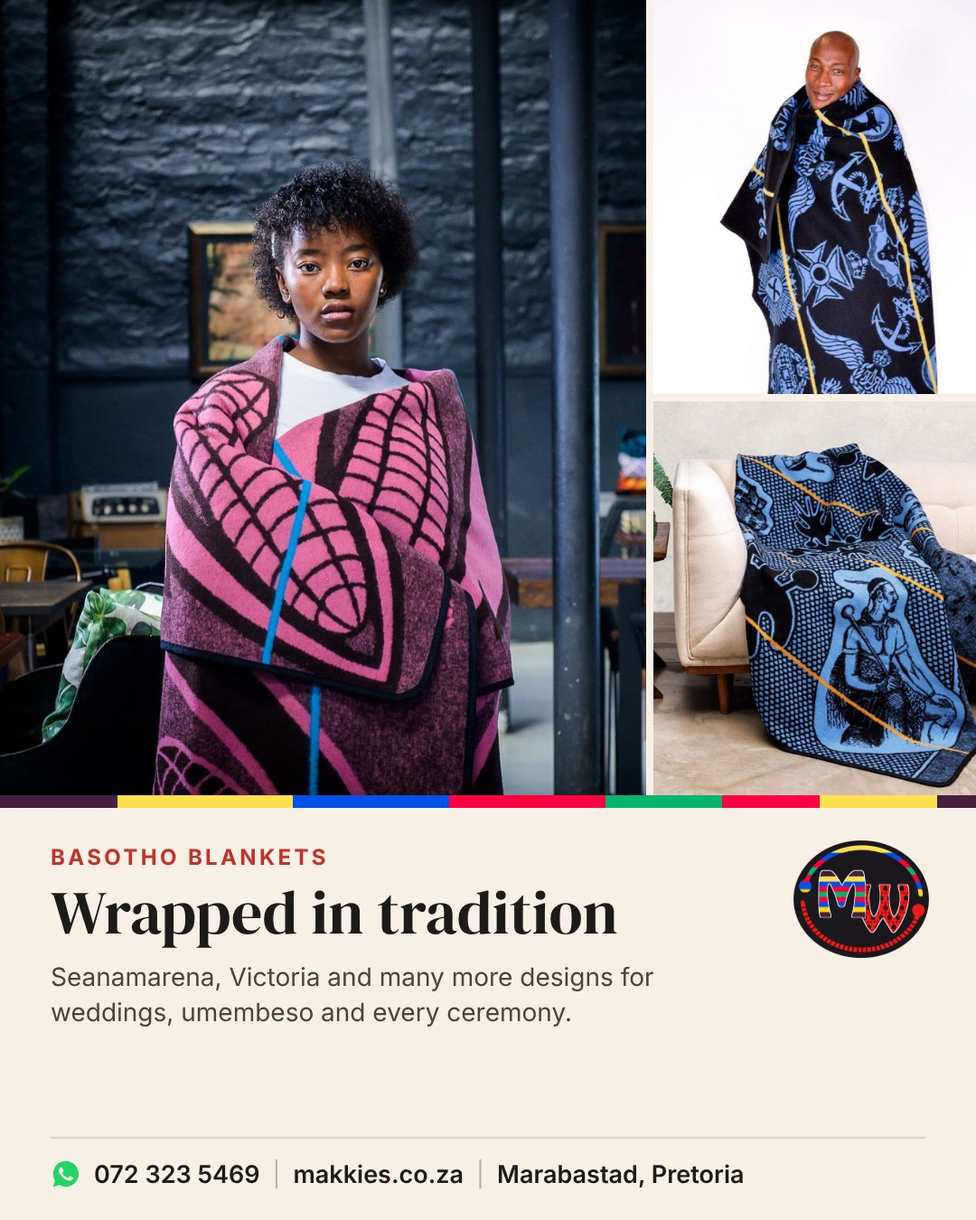
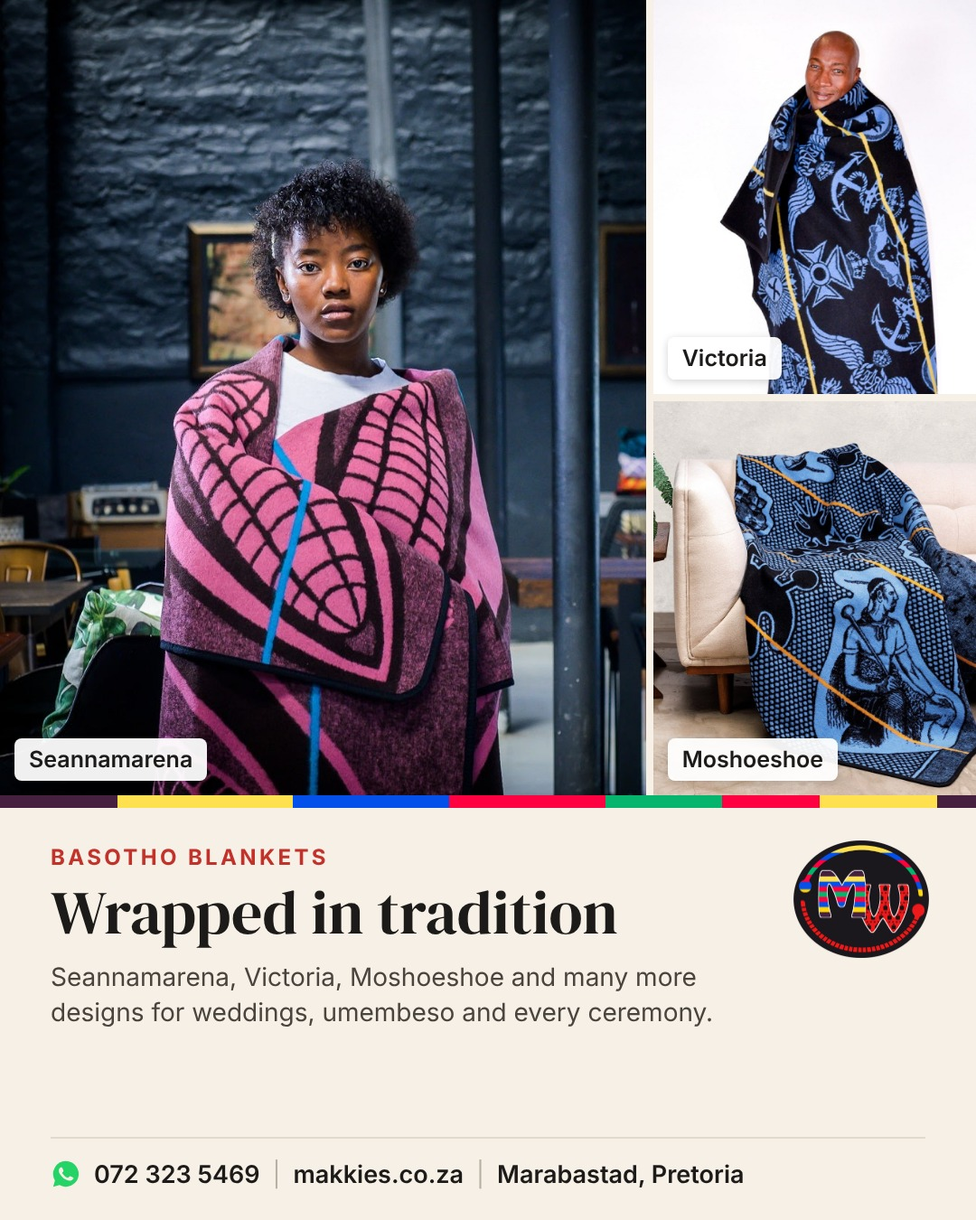
WhatsApp ads: add product and colour name labels
Claude-Session: https://claude.ai/code/session_01FrAdmZhbnvV2Pi8Ea2YxmY

diff --git a/marketing/whatsapp-ads/04-czech-beads.html b/marketing/whatsapp-ads/04-czech-beads.html
@@ -141,7 +141,7 @@
   unicode-range: U+0000-00FF, U+0131, U+0152-0153, U+02BB-02BC, U+02C6, U+02DA, U+02DC, U+0304, U+0308, U+0329, U+2000-206F, U+20AC, U+2122, U+2191, U+2193, U+2212, U+2215, U+FEFF, U+FFFD;
 }*{margin:0;padding:0;box-sizing:border-box}@font-face{font-family:'DM Serif Display';src:url(../category-ads-source/fonts/dmserif.woff2)}
 body{width:1080px;height:1350px;font-family:Inter,Arial,sans-serif;background:#F6F0E6;color:#1d1b19;overflow:hidden}
-.pics{height:880px;display:grid;gap:8px;background:#F6F0E6}.ph{background-size:cover;background-repeat:no-repeat}
+.pics{height:880px;display:grid;gap:8px;background:#F6F0E6}.ph{background-size:cover;background-repeat:no-repeat;position:relative}.lb{position:absolute;left:16px;bottom:16px;background:rgba(255,255,255,.94);color:#1d1b19;font-size:25px;font-weight:600;padding:9px 16px;border-radius:8px;box-shadow:0 2px 10px rgba(0,0,0,.18);line-height:1.15}.six .lb{font-size:22px;left:12px;bottom:12px;padding:8px 13px}.hero .lb{left:24px;bottom:24px;font-size:28px}
 .grid{grid-template-columns:2fr 1fr;grid-template-rows:1fr 1fr}.grid .big{grid-row:1/3}.quad{grid-template-columns:1fr 1fr;grid-template-rows:1fr 1fr}.hero .ph{height:880px}.six{grid-template-columns:1fr 1fr 1fr;grid-template-rows:1fr 1fr}
 .stripe{height:14px;background:linear-gradient(90deg,#45203F 0 12%,#FFE14F 12% 30%,#0350EA 30% 46%,#FF0141 46% 62%,#05B56D 62% 74%,#FF0141 74% 84%,#FFE14F 84% 96%,#45203F 96%)}
 .panel{height:456px;padding:40px 56px 0;position:relative}
@@ -150,6 +150,6 @@ body{width:1080px;height:1350px;font-family:Inter,Arial,sans-serif;background:#F
 h1{font-family:'DM Serif Display',Georgia,serif;font-weight:400;font-size:68px;line-height:1.04;margin:12px 0 16px;max-width:770px;text-wrap:balance}
 p{font-size:28px;line-height:1.4;color:#4a443e;max-width:770px;text-wrap:pretty}
 .foot{position:absolute;left:56px;right:56px;bottom:34px;display:flex;align-items:center;gap:14px;font-size:27px;font-weight:600;border-top:2px solid #e2d9cc;padding-top:22px}
-.foot .sep{color:#b9b0a5;font-weight:400}</style></head><body><div class="pics six"><div class="ph " style="background-image:url(../category-ads-source/img/pay_czech1.jpg);background-position:center"></div><div class="ph " style="background-image:url(../category-ads-source/img/pay_czech2.jpg);background-position:center"></div><div class="ph " style="background-image:url(../category-ads-source/img/cz_cz-83130.jpg);background-position:center"></div><div class="ph " style="background-image:url(../category-ads-source/img/pay_czech3.jpg);background-position:center"></div><div class="ph " style="background-image:url(../category-ads-source/img/cz_cz-63030.jpg);background-position:center"></div><div class="ph " style="background-image:url(../category-ads-source/img/cz_cz-37175.jpg);background-position:center"></div></div><div class="stripe"></div>
+.foot .sep{color:#b9b0a5;font-weight:400}</style></head><body><div class="pics six"><div class="ph " style="background-image:url(../category-ads-source/img/pay_czech1.jpg);background-position:center"><span class="lb">Dark Orange</span></div><div class="ph " style="background-image:url(../category-ads-source/img/pay_czech2.jpg);background-position:center"><span class="lb">Royal Blue</span></div><div class="ph " style="background-image:url(../category-ads-source/img/cz_cz-83130.jpg);background-position:center"><span class="lb">Yellow</span></div><div class="ph " style="background-image:url(../category-ads-source/img/pay_czech3.jpg);background-position:center"><span class="lb">Bright Green</span></div><div class="ph " style="background-image:url(../category-ads-source/img/cz_cz-63030.jpg);background-position:center"><span class="lb">Turquoise</span></div><div class="ph " style="background-image:url(../category-ads-source/img/cz_cz-37175.jpg);background-position:center"><span class="lb">Ceylon Pink</span></div></div><div class="stripe"></div>
 <div class="panel"><img class="logo" src="../category-ads-source/img/mw_oval.png"><div class="eb">Preciosa Czech Beads</div><h1>Every colour you need</h1><p>Loose and strung Czech beads for beadwork, crafters and schools. Ask us for a colour list.</p>
 <div class="foot"><svg width="34" height="34" viewBox="0 0 24 24" fill="#25D366"><path d="M12 2a10 10 0 0 0-8.6 15.1L2 22l5-1.3A10 10 0 1 0 12 2zm5.3 14.1c-.2.6-1.3 1.2-1.8 1.2-.5.1-1 .2-3.3-.7-2.8-1.1-4.6-4-4.7-4.2-.1-.2-1.1-1.5-1.1-2.9s.7-2 1-2.3c.2-.3.5-.3.7-.3h.5c.2 0 .4 0 .6.5l.8 2c.1.2.1.4 0 .5l-.3.5-.4.4c-.1.1-.3.3-.1.6.2.3.8 1.3 1.7 2.1 1.1 1 2.1 1.3 2.4 1.5.3.1.5.1.6-.1l.9-1c.2-.3.4-.2.6-.1l1.9.9c.3.1.5.2.5.3.1.2.1.7-.1 1.2z"/></svg><span>072 323 5469</span><span class="sep">|</span><span>makkies.co.za</span><span class="sep">|</span><span>Marabastad, Pretoria</span></div></div></body></html>

diff --git a/marketing/whatsapp-ads/03-wedding-umembeso.html b/marketing/whatsapp-ads/03-wedding-umembeso.html
@@ -141,7 +141,7 @@
   unicode-range: U+0000-00FF, U+0131, U+0152-0153, U+02BB-02BC, U+02C6, U+02DA, U+02DC, U+0304, U+0308, U+0329, U+2000-206F, U+20AC, U+2122, U+2191, U+2193, U+2212, U+2215, U+FEFF, U+FFFD;
 }*{margin:0;padding:0;box-sizing:border-box}@font-face{font-family:'DM Serif Display';src:url(../category-ads-source/fonts/dmserif.woff2)}
 body{width:1080px;height:1350px;font-family:Inter,Arial,sans-serif;background:#F6F0E6;color:#1d1b19;overflow:hidden}
-.pics{height:880px;display:grid;gap:8px;background:#F6F0E6}.ph{background-size:cover;background-repeat:no-repeat}
+.pics{height:880px;display:grid;gap:8px;background:#F6F0E6}.ph{background-size:cover;background-repeat:no-repeat;position:relative}.lb{position:absolute;left:16px;bottom:16px;background:rgba(255,255,255,.94);color:#1d1b19;font-size:25px;font-weight:600;padding:9px 16px;border-radius:8px;box-shadow:0 2px 10px rgba(0,0,0,.18);line-height:1.15}.six .lb{font-size:22px;left:12px;bottom:12px;padding:8px 13px}.hero .lb{left:24px;bottom:24px;font-size:28px}
 .grid{grid-template-columns:2fr 1fr;grid-template-rows:1fr 1fr}.grid .big{grid-row:1/3}.quad{grid-template-columns:1fr 1fr;grid-template-rows:1fr 1fr}.hero .ph{height:880px}.six{grid-template-columns:1fr 1fr 1fr;grid-template-rows:1fr 1fr}
 .stripe{height:14px;background:linear-gradient(90deg,#45203F 0 12%,#FFE14F 12% 30%,#0350EA 30% 46%,#FF0141 46% 62%,#05B56D 62% 74%,#FF0141 74% 84%,#FFE14F 84% 96%,#45203F 96%)}
 .panel{height:456px;padding:40px 56px 0;position:relative}
@@ -150,6 +150,6 @@ body{width:1080px;height:1350px;font-family:Inter,Arial,sans-serif;background:#F
 h1{font-family:'DM Serif Display',Georgia,serif;font-weight:400;font-size:68px;line-height:1.04;margin:12px 0 16px;max-width:770px;text-wrap:balance}
 p{font-size:28px;line-height:1.4;color:#4a443e;max-width:770px;text-wrap:pretty}
 .foot{position:absolute;left:56px;right:56px;bottom:34px;display:flex;align-items:center;gap:14px;font-size:27px;font-weight:600;border-top:2px solid #e2d9cc;padding-top:22px}
-.foot .sep{color:#b9b0a5;font-weight:400}</style></head><body><div class="pics quad"><div class="ph " style="background-image:url(../category-ads-source/img/pay_wedding_shawl.jpg);background-position:center"></div><div class="ph " style="background-image:url(../category-ads-source/img/pay_ziela_gold.jpg);background-position:center"></div><div class="ph " style="background-image:url(../category-ads-source/img/pay_xhosa_black.jpg);background-position:center"></div><div class="ph " style="background-image:url(../category-ads-source/img/um_mnk-014.jpg);background-position:center"></div></div><div class="stripe"></div>
+.foot .sep{color:#b9b0a5;font-weight:400}</style></head><body><div class="pics quad"><div class="ph " style="background-image:url(../category-ads-source/img/pay_wedding_shawl.jpg);background-position:center"><span class="lb">White Wedding Shawl</span></div><div class="ph " style="background-image:url(../category-ads-source/img/pay_ziela_gold.jpg);background-position:center"><span class="lb">Neck Ziela</span></div><div class="ph " style="background-image:url(../category-ads-source/img/pay_xhosa_black.jpg);background-position:center"><span class="lb">Black Stripe Blanket</span></div><div class="ph " style="background-image:url(../category-ads-source/img/um_mnk-014.jpg);background-position:center"><span class="lb">Paris Mink Blanket</span></div></div><div class="stripe"></div>
 <div class="panel"><img class="logo" src="../category-ads-source/img/mw_oval.png"><div class="eb">Umembeso & Weddings</div><h1>Everything for the big day</h1><p>Blankets, shawls, neck ziela and gifts for the in-laws, all from one shop.</p>
 <div class="foot"><svg width="34" height="34" viewBox="0 0 24 24" fill="#25D366"><path d="M12 2a10 10 0 0 0-8.6 15.1L2 22l5-1.3A10 10 0 1 0 12 2zm5.3 14.1c-.2.6-1.3 1.2-1.8 1.2-.5.1-1 .2-3.3-.7-2.8-1.1-4.6-4-4.7-4.2-.1-.2-1.1-1.5-1.1-2.9s.7-2 1-2.3c.2-.3.5-.3.7-.3h.5c.2 0 .4 0 .6.5l.8 2c.1.2.1.4 0 .5l-.3.5-.4.4c-.1.1-.3.3-.1.6.2.3.8 1.3 1.7 2.1 1.1 1 2.1 1.3 2.4 1.5.3.1.5.1.6-.1l.9-1c.2-.3.4-.2.6-.1l1.9.9c.3.1.5.2.5.3.1.2.1.7-.1 1.2z"/></svg><span>072 323 5469</span><span class="sep">|</span><span>makkies.co.za</span><span class="sep">|</span><span>Marabastad, Pretoria</span></div></div></body></html>

diff --git a/marketing/whatsapp-ads/06-ndebele-accessories.html b/marketing/whatsapp-ads/06-ndebele-accessories.html
@@ -141,7 +141,7 @@
   unicode-range: U+0000-00FF, U+0131, U+0152-0153, U+02BB-02BC, U+02C6, U+02DA, U+02DC, U+0304, U+0308, U+0329, U+2000-206F, U+20AC, U+2122, U+2191, U+2193, U+2212, U+2215, U+FEFF, U+FFFD;
 }*{margin:0;padding:0;box-sizing:border-box}@font-face{font-family:'DM Serif Display';src:url(../category-ads-source/fonts/dmserif.woff2)}
 body{width:1080px;height:1350px;font-family:Inter,Arial,sans-serif;background:#F6F0E6;color:#1d1b19;overflow:hidden}
-.pics{height:880px;display:grid;gap:8px;background:#F6F0E6}.ph{background-size:cover;background-repeat:no-repeat}
+.pics{height:880px;display:grid;gap:8px;background:#F6F0E6}.ph{background-size:cover;background-repeat:no-repeat;position:relative}.lb{position:absolute;left:16px;bottom:16px;background:rgba(255,255,255,.94);color:#1d1b19;font-size:25px;font-weight:600;padding:9px 16px;border-radius:8px;box-shadow:0 2px 10px rgba(0,0,0,.18);line-height:1.15}.six .lb{font-size:22px;left:12px;bottom:12px;padding:8px 13px}.hero .lb{left:24px;bottom:24px;font-size:28px}
 .grid{grid-template-columns:2fr 1fr;grid-template-rows:1fr 1fr}.grid .big{grid-row:1/3}.quad{grid-template-columns:1fr 1fr;grid-template-rows:1fr 1fr}.hero .ph{height:880px}.six{grid-template-columns:1fr 1fr 1fr;grid-template-rows:1fr 1fr}
 .stripe{height:14px;background:linear-gradient(90deg,#45203F 0 12%,#FFE14F 12% 30%,#0350EA 30% 46%,#FF0141 46% 62%,#05B56D 62% 74%,#FF0141 74% 84%,#FFE14F 84% 96%,#45203F 96%)}
 .panel{height:456px;padding:40px 56px 0;position:relative}
@@ -150,6 +150,6 @@ body{width:1080px;height:1350px;font-family:Inter,Arial,sans-serif;background:#F
 h1{font-family:'DM Serif Display',Georgia,serif;font-weight:400;font-size:68px;line-height:1.04;margin:12px 0 16px;max-width:770px;text-wrap:balance}
 p{font-size:28px;line-height:1.4;color:#4a443e;max-width:770px;text-wrap:pretty}
 .foot{position:absolute;left:56px;right:56px;bottom:34px;display:flex;align-items:center;gap:14px;font-size:27px;font-weight:600;border-top:2px solid #e2d9cc;padding-top:22px}
-.foot .sep{color:#b9b0a5;font-weight:400}</style></head><body><div class="pics quad"><div class="ph " style="background-image:url(../category-ads-source/img/nd_nzl-001.jpg);background-position:center"></div><div class="ph " style="background-image:url(../category-ads-source/img/hat_ndh-002.jpg);background-position:center"></div><div class="ph " style="background-image:url(../category-ads-source/img/pay_tekkies.jpg);background-position:center"></div><div class="ph " style="background-image:url(../category-ads-source/img/ba_trd-011.jpg);background-position:center"></div></div><div class="stripe"></div>
+.foot .sep{color:#b9b0a5;font-weight:400}</style></head><body><div class="pics quad"><div class="ph " style="background-image:url(../category-ads-source/img/nd_nzl-001.jpg);background-position:center"><span class="lb">Button Neck Ziela</span></div><div class="ph " style="background-image:url(../category-ads-source/img/hat_ndh-002.jpg);background-position:center"><span class="lb">Ndebele Painted Hat</span></div><div class="ph " style="background-image:url(../category-ads-source/img/pay_tekkies.jpg);background-position:center"><span class="lb">Beetee Painted Tekkies</span></div><div class="ph " style="background-image:url(../category-ads-source/img/ba_trd-011.jpg);background-position:center"><span class="lb">Beaded Necklace</span></div></div><div class="stripe"></div>
 <div class="panel"><img class="logo" src="../category-ads-source/img/mw_oval.png"><div class="eb">Ndebele Accessories</div><h1>Finish the look</h1><p>Neck ziela, Ndebele hats, hand-painted tekkies and beaded accessories.</p>
 <div class="foot"><svg width="34" height="34" viewBox="0 0 24 24" fill="#25D366"><path d="M12 2a10 10 0 0 0-8.6 15.1L2 22l5-1.3A10 10 0 1 0 12 2zm5.3 14.1c-.2.6-1.3 1.2-1.8 1.2-.5.1-1 .2-3.3-.7-2.8-1.1-4.6-4-4.7-4.2-.1-.2-1.1-1.5-1.1-2.9s.7-2 1-2.3c.2-.3.5-.3.7-.3h.5c.2 0 .4 0 .6.5l.8 2c.1.2.1.4 0 .5l-.3.5-.4.4c-.1.1-.3.3-.1.6.2.3.8 1.3 1.7 2.1 1.1 1 2.1 1.3 2.4 1.5.3.1.5.1.6-.1l.9-1c.2-.3.4-.2.6-.1l1.9.9c.3.1.5.2.5.3.1.2.1.7-.1 1.2z"/></svg><span>072 323 5469</span><span class="sep">|</span><span>makkies.co.za</span><span class="sep">|</span><span>Marabastad, Pretoria</span></div></div></body></html>

diff --git a/marketing/whatsapp-ads/01-basotho-blankets.html b/marketing/whatsapp-ads/01-basotho-blankets.html
@@ -141,7 +141,7 @@
   unicode-range: U+0000-00FF, U+0131, U+0152-0153, U+02BB-02BC, U+02C6, U+02DA, U+02DC, U+0304, U+0308, U+0329, U+2000-206F, U+20AC, U+2122, U+2191, U+2193, U+2212, U+2215, U+FEFF, U+FFFD;
 }*{margin:0;padding:0;box-sizing:border-box}@font-face{font-family:'DM Serif Display';src:url(../category-ads-source/fonts/dmserif.woff2)}
 body{width:1080px;height:1350px;font-family:Inter,Arial,sans-serif;background:#F6F0E6;color:#1d1b19;overflow:hidden}
-.pics{height:880px;display:grid;gap:8px;background:#F6F0E6}.ph{background-size:cover;background-repeat:no-repeat}
+.pics{height:880px;display:grid;gap:8px;background:#F6F0E6}.ph{background-size:cover;background-repeat:no-repeat;position:relative}.lb{position:absolute;left:16px;bottom:16px;background:rgba(255,255,255,.94);color:#1d1b19;font-size:25px;font-weight:600;padding:9px 16px;border-radius:8px;box-shadow:0 2px 10px rgba(0,0,0,.18);line-height:1.15}.six .lb{font-size:22px;left:12px;bottom:12px;padding:8px 13px}.hero .lb{left:24px;bottom:24px;font-size:28px}
 .grid{grid-template-columns:2fr 1fr;grid-template-rows:1fr 1fr}.grid .big{grid-row:1/3}.quad{grid-template-columns:1fr 1fr;grid-template-rows:1fr 1fr}.hero .ph{height:880px}.six{grid-template-columns:1fr 1fr 1fr;grid-template-rows:1fr 1fr}
 .stripe{height:14px;background:linear-gradient(90deg,#45203F 0 12%,#FFE14F 12% 30%,#0350EA 30% 46%,#FF0141 46% 62%,#05B56D 62% 74%,#FF0141 74% 84%,#FFE14F 84% 96%,#45203F 96%)}
 .panel{height:456px;padding:40px 56px 0;position:relative}
@@ -150,6 +150,6 @@ body{width:1080px;height:1350px;font-family:Inter,Arial,sans-serif;background:#F
 h1{font-family:'DM Serif Display',Georgia,serif;font-weight:400;font-size:68px;line-height:1.04;margin:12px 0 16px;max-width:770px;text-wrap:balance}
 p{font-size:28px;line-height:1.4;color:#4a443e;max-width:770px;text-wrap:pretty}
 .foot{position:absolute;left:56px;right:56px;bottom:34px;display:flex;align-items:center;gap:14px;font-size:27px;font-weight:600;border-top:2px solid #e2d9cc;padding-top:22px}
-.foot .sep{color:#b9b0a5;font-weight:400}</style></head><body><div class="pics grid"><div class="ph big" style="background-image:url(../category-ads-source/img/bs_trb-011.jpg);background-position:50% 30%"></div><div class="ph " style="background-image:url(../category-ads-source/img/bs_trb-012.jpg);background-position:center"></div><div class="ph " style="background-image:url(../category-ads-source/img/bs_trb-026.jpg);background-position:center"></div></div><div class="stripe"></div>
-<div class="panel"><img class="logo" src="../category-ads-source/img/mw_oval.png"><div class="eb">Basotho Blankets</div><h1>Wrapped in tradition</h1><p>Seanamarena, Victoria and many more designs for weddings, umembeso and every ceremony.</p>
+.foot .sep{color:#b9b0a5;font-weight:400}</style></head><body><div class="pics grid"><div class="ph big" style="background-image:url(../category-ads-source/img/bs_trb-011.jpg);background-position:50% 30%"><span class="lb">Seannamarena</span></div><div class="ph " style="background-image:url(../category-ads-source/img/bs_trb-012.jpg);background-position:center"><span class="lb">Victoria</span></div><div class="ph " style="background-image:url(../category-ads-source/img/bs_trb-026.jpg);background-position:center"><span class="lb">Moshoeshoe</span></div></div><div class="stripe"></div>
+<div class="panel"><img class="logo" src="../category-ads-source/img/mw_oval.png"><div class="eb">Basotho Blankets</div><h1>Wrapped in tradition</h1><p>Seannamarena, Victoria, Moshoeshoe and many more designs for weddings, umembeso and every ceremony.</p>
 <div class="foot"><svg width="34" height="34" viewBox="0 0 24 24" fill="#25D366"><path d="M12 2a10 10 0 0 0-8.6 15.1L2 22l5-1.3A10 10 0 1 0 12 2zm5.3 14.1c-.2.6-1.3 1.2-1.8 1.2-.5.1-1 .2-3.3-.7-2.8-1.1-4.6-4-4.7-4.2-.1-.2-1.1-1.5-1.1-2.9s.7-2 1-2.3c.2-.3.5-.3.7-.3h.5c.2 0 .4 0 .6.5l.8 2c.1.2.1.4 0 .5l-.3.5-.4.4c-.1.1-.3.3-.1.6.2.3.8 1.3 1.7 2.1 1.1 1 2.1 1.3 2.4 1.5.3.1.5.1.6-.1l.9-1c.2-.3.4-.2.6-.1l1.9.9c.3.1.5.2.5.3.1.2.1.7-.1 1.2z"/></svg><span>072 323 5469</span><span class="sep">|</span><span>makkies.co.za</span><span class="sep">|</span><span>Marabastad, Pretoria</span></div></div></body></html>

diff --git a/marketing/whatsapp-ads/02-ndebele-blankets.html b/marketing/whatsapp-ads/02-ndebele-blankets.html
@@ -141,7 +141,7 @@
   unicode-range: U+0000-00FF, U+0131, U+0152-0153, U+02BB-02BC, U+02C6, U+02DA, U+02DC, U+0304, U+0308, U+0329, U+2000-206F, U+20AC, U+2122, U+2191, U+2193, U+2212, U+2215, U+FEFF, U+FFFD;
 }*{margin:0;padding:0;box-sizing:border-box}@font-face{font-family:'DM Serif Display';src:url(../category-ads-source/fonts/dmserif.woff2)}
 body{width:1080px;height:1350px;font-family:Inter,Arial,sans-serif;background:#F6F0E6;color:#1d1b19;overflow:hidden}
-.pics{height:880px;display:grid;gap:8px;background:#F6F0E6}.ph{background-size:cover;background-repeat:no-repeat}
+.pics{height:880px;display:grid;gap:8px;background:#F6F0E6}.ph{background-size:cover;background-repeat:no-repeat;position:relative}.lb{position:absolute;left:16px;bottom:16px;background:rgba(255,255,255,.94);color:#1d1b19;font-size:25px;font-weight:600;padding:9px 16px;border-radius:8px;box-shadow:0 2px 10px rgba(0,0,0,.18);line-height:1.15}.six .lb{font-size:22px;left:12px;bottom:12px;padding:8px 13px}.hero .lb{left:24px;bottom:24px;font-size:28px}
 .grid{grid-template-columns:2fr 1fr;grid-template-rows:1fr 1fr}.grid .big{grid-row:1/3}.quad{grid-template-columns:1fr 1fr;grid-template-rows:1fr 1fr}.hero .ph{height:880px}.six{grid-template-columns:1fr 1fr 1fr;grid-template-rows:1fr 1fr}
 .stripe{height:14px;background:linear-gradient(90deg,#45203F 0 12%,#FFE14F 12% 30%,#0350EA 30% 46%,#FF0141 46% 62%,#05B56D 62% 74%,#FF0141 74% 84%,#FFE14F 84% 96%,#45203F 96%)}
 .panel{height:456px;padding:40px 56px 0;position:relative}
@@ -150,6 +150,6 @@ body{width:1080px;height:1350px;font-family:Inter,Arial,sans-serif;background:#F
 h1{font-family:'DM Serif Display',Georgia,serif;font-weight:400;font-size:68px;line-height:1.04;margin:12px 0 16px;max-width:770px;text-wrap:balance}
 p{font-size:28px;line-height:1.4;color:#4a443e;max-width:770px;text-wrap:pretty}
 .foot{position:absolute;left:56px;right:56px;bottom:34px;display:flex;align-items:center;gap:14px;font-size:27px;font-weight:600;border-top:2px solid #e2d9cc;padding-top:22px}
-.foot .sep{color:#b9b0a5;font-weight:400}</style></head><body><div class="pics grid"><div class="ph big" style="background-image:url(../category-ads-source/img/pay_ukhamba.jpg);background-position:50% 30%"></div><div class="ph " style="background-image:url(../category-ads-source/img/pay_umbhalo.jpg);background-position:center"></div><div class="ph " style="background-image:url(../category-ads-source/img/pay_elizabeth.jpg);background-position:center"></div></div><div class="stripe"></div>
-<div class="panel"><img class="logo" src="../category-ads-source/img/mw_oval.png"><div class="eb">Ndebele Blankets</div><h1>Bold colours, proud heritage</h1><p>Ukhamba, Umbhalo, Elizabeth and more, in stock now.</p>
+.foot .sep{color:#b9b0a5;font-weight:400}</style></head><body><div class="pics grid"><div class="ph big" style="background-image:url(../category-ads-source/img/pay_ukhamba.jpg);background-position:50% 30%"><span class="lb">Ukhamba</span></div><div class="ph " style="background-image:url(../category-ads-source/img/pay_umbhalo.jpg);background-position:center"><span class="lb">Umbhalo</span></div><div class="ph " style="background-image:url(img/ndebele_furpile.jpg);background-position:center"><span class="lb">Ndebele Furpile</span></div></div><div class="stripe"></div>
+<div class="panel"><img class="logo" src="../category-ads-source/img/mw_oval.png"><div class="eb">Ndebele Blankets</div><h1>Bold colours, proud heritage</h1><p>Ukhamba, Umbhalo, Ndebele Furpile and more, in stock now.</p>
 <div class="foot"><svg width="34" height="34" viewBox="0 0 24 24" fill="#25D366"><path d="M12 2a10 10 0 0 0-8.6 15.1L2 22l5-1.3A10 10 0 1 0 12 2zm5.3 14.1c-.2.6-1.3 1.2-1.8 1.2-.5.1-1 .2-3.3-.7-2.8-1.1-4.6-4-4.7-4.2-.1-.2-1.1-1.5-1.1-2.9s.7-2 1-2.3c.2-.3.5-.3.7-.3h.5c.2 0 .4 0 .6.5l.8 2c.1.2.1.4 0 .5l-.3.5-.4.4c-.1.1-.3.3-.1.6.2.3.8 1.3 1.7 2.1 1.1 1 2.1 1.3 2.4 1.5.3.1.5.1.6-.1l.9-1c.2-.3.4-.2.6-.1l1.9.9c.3.1.5.2.5.3.1.2.1.7-.1 1.2z"/></svg><span>072 323 5469</span><span class="sep">|</span><span>makkies.co.za</span><span class="sep">|</span><span>Marabastad, Pretoria</span></div></div></body></html>

diff --git a/marketing/whatsapp-ads/05-xhosa-blankets.html b/marketing/whatsapp-ads/05-xhosa-blankets.html
@@ -141,7 +141,7 @@
   unicode-range: U+0000-00FF, U+0131, U+0152-0153, U+02BB-02BC, U+02C6, U+02DA, U+02DC, U+0304, U+0308, U+0329, U+2000-206F, U+20AC, U+2122, U+2191, U+2193, U+2212, U+2215, U+FEFF, U+FFFD;
 }*{margin:0;padding:0;box-sizing:border-box}@font-face{font-family:'DM Serif Display';src:url(../category-ads-source/fonts/dmserif.woff2)}
 body{width:1080px;height:1350px;font-family:Inter,Arial,sans-serif;background:#F6F0E6;color:#1d1b19;overflow:hidden}
-.pics{height:880px;display:grid;gap:8px;background:#F6F0E6}.ph{background-size:cover;background-repeat:no-repeat}
+.pics{height:880px;display:grid;gap:8px;background:#F6F0E6}.ph{background-size:cover;background-repeat:no-repeat;position:relative}.lb{position:absolute;left:16px;bottom:16px;background:rgba(255,255,255,.94);color:#1d1b19;font-size:25px;font-weight:600;padding:9px 16px;border-radius:8px;box-shadow:0 2px 10px rgba(0,0,0,.18);line-height:1.15}.six .lb{font-size:22px;left:12px;bottom:12px;padding:8px 13px}.hero .lb{left:24px;bottom:24px;font-size:28px}
 .grid{grid-template-columns:2fr 1fr;grid-template-rows:1fr 1fr}.grid .big{grid-row:1/3}.quad{grid-template-columns:1fr 1fr;grid-template-rows:1fr 1fr}.hero .ph{height:880px}.six{grid-template-columns:1fr 1fr 1fr;grid-template-rows:1fr 1fr}
 .stripe{height:14px;background:linear-gradient(90deg,#45203F 0 12%,#FFE14F 12% 30%,#0350EA 30% 46%,#FF0141 46% 62%,#05B56D 62% 74%,#FF0141 74% 84%,#FFE14F 84% 96%,#45203F 96%)}
 .panel{height:456px;padding:40px 56px 0;position:relative}
@@ -150,6 +150,6 @@ body{width:1080px;height:1350px;font-family:Inter,Arial,sans-serif;background:#F
 h1{font-family:'DM Serif Display',Georgia,serif;font-weight:400;font-size:68px;line-height:1.04;margin:12px 0 16px;max-width:770px;text-wrap:balance}
 p{font-size:28px;line-height:1.4;color:#4a443e;max-width:770px;text-wrap:pretty}
 .foot{position:absolute;left:56px;right:56px;bottom:34px;display:flex;align-items:center;gap:14px;font-size:27px;font-weight:600;border-top:2px solid #e2d9cc;padding-top:22px}
-.foot .sep{color:#b9b0a5;font-weight:400}</style></head><body><div class="pics grid"><div class="ph big" style="background-image:url(../category-ads-source/img/xh_rug-001.jpg);background-position:50% 30%"></div><div class="ph " style="background-image:url(../category-ads-source/img/pay_xhosa_black.jpg);background-position:center"></div><div class="ph " style="background-image:url(../category-ads-source/img/xh_stripe_02.jpg);background-position:center"></div></div><div class="stripe"></div>
+.foot .sep{color:#b9b0a5;font-weight:400}</style></head><body><div class="pics grid"><div class="ph big" style="background-image:url(../category-ads-source/img/xh_rug-001.jpg);background-position:50% 30%"><span class="lb">Tivolli Rug</span></div><div class="ph " style="background-image:url(../category-ads-source/img/pay_xhosa_black.jpg);background-position:center"><span class="lb">Black Stripe</span></div><div class="ph " style="background-image:url(../category-ads-source/img/xh_stripe_02.jpg);background-position:center"><span class="lb">Purple Stripe</span></div></div><div class="stripe"></div>
 <div class="panel"><img class="logo" src="../category-ads-source/img/mw_oval.png"><div class="eb">Xhosa Blankets</div><h1>Classic stripes, made to last</h1><p>Tribal stripe blankets and traditional rugs in a range of colours.</p>
 <div class="foot"><svg width="34" height="34" viewBox="0 0 24 24" fill="#25D366"><path d="M12 2a10 10 0 0 0-8.6 15.1L2 22l5-1.3A10 10 0 1 0 12 2zm5.3 14.1c-.2.6-1.3 1.2-1.8 1.2-.5.1-1 .2-3.3-.7-2.8-1.1-4.6-4-4.7-4.2-.1-.2-1.1-1.5-1.1-2.9s.7-2 1-2.3c.2-.3.5-.3.7-.3h.5c.2 0 .4 0 .6.5l.8 2c.1.2.1.4 0 .5l-.3.5-.4.4c-.1.1-.3.3-.1.6.2.3.8 1.3 1.7 2.1 1.1 1 2.1 1.3 2.4 1.5.3.1.5.1.6-.1l.9-1c.2-.3.4-.2.6-.1l1.9.9c.3.1.5.2.5.3.1.2.1.7-.1 1.2z"/></svg><span>072 323 5469</span><span class="sep">|</span><span>makkies.co.za</span><span class="sep">|</span><span>Marabastad, Pretoria</span></div></div></body></html>

diff --git a/marketing/whatsapp-ads/07-we-deliver.html b/marketing/whatsapp-ads/07-we-deliver.html
@@ -141,7 +141,7 @@
   unicode-range: U+0000-00FF, U+0131, U+0152-0153, U+02BB-02BC, U+02C6, U+02DA, U+02DC, U+0304, U+0308, U+0329, U+2000-206F, U+20AC, U+2122, U+2191, U+2193, U+2212, U+2215, U+FEFF, U+FFFD;
 }*{margin:0;padding:0;box-sizing:border-box}@font-face{font-family:'DM Serif Display';src:url(../category-ads-source/fonts/dmserif.woff2)}
 body{width:1080px;height:1350px;font-family:Inter,Arial,sans-serif;background:#F6F0E6;color:#1d1b19;overflow:hidden}
-.pics{height:880px;display:grid;gap:8px;background:#F6F0E6}.ph{background-size:cover;background-repeat:no-repeat}
+.pics{height:880px;display:grid;gap:8px;background:#F6F0E6}.ph{background-size:cover;background-repeat:no-repeat;position:relative}.lb{position:absolute;left:16px;bottom:16px;background:rgba(255,255,255,.94);color:#1d1b19;font-size:25px;font-weight:600;padding:9px 16px;border-radius:8px;box-shadow:0 2px 10px rgba(0,0,0,.18);line-height:1.15}.six .lb{font-size:22px;left:12px;bottom:12px;padding:8px 13px}.hero .lb{left:24px;bottom:24px;font-size:28px}
 .grid{grid-template-columns:2fr 1fr;grid-template-rows:1fr 1fr}.grid .big{grid-row:1/3}.quad{grid-template-columns:1fr 1fr;grid-template-rows:1fr 1fr}.hero .ph{height:880px}.six{grid-template-columns:1fr 1fr 1fr;grid-template-rows:1fr 1fr}
 .stripe{height:14px;background:linear-gradient(90deg,#45203F 0 12%,#FFE14F 12% 30%,#0350EA 30% 46%,#FF0141 46% 62%,#05B56D 62% 74%,#FF0141 74% 84%,#FFE14F 84% 96%,#45203F 96%)}
 .panel{height:456px;padding:40px 56px 0;position:relative}
@@ -150,6 +150,6 @@ body{width:1080px;height:1350px;font-family:Inter,Arial,sans-serif;background:#F
 h1{font-family:'DM Serif Display',Georgia,serif;font-weight:400;font-size:68px;line-height:1.04;margin:12px 0 16px;max-width:770px;text-wrap:balance}
 p{font-size:28px;line-height:1.4;color:#4a443e;max-width:770px;text-wrap:pretty}
 .foot{position:absolute;left:56px;right:56px;bottom:34px;display:flex;align-items:center;gap:14px;font-size:27px;font-weight:600;border-top:2px solid #e2d9cc;padding-top:22px}
-.foot .sep{color:#b9b0a5;font-weight:400}</style></head><body><div class="pics hero"><div class="ph " style="background-image:url(../category-ads-source/img/bs_trb-024.jpg);background-position:50% 40%"></div></div><div class="stripe"></div>
+.foot .sep{color:#b9b0a5;font-weight:400}</style></head><body><div class="pics hero"><div class="ph " style="background-image:url(../category-ads-source/img/bs_trb-024.jpg);background-position:50% 40%"><span class="lb">Mohodu Basotho Blanket</span></div></div><div class="stripe"></div>
 <div class="panel"><img class="logo" src="../category-ads-source/img/mw_oval.png"><div class="eb">Order from anywhere</div><h1>We deliver across South Africa</h1><p>Order on WhatsApp or at makkies.co.za. Pay by card, Instant EFT or SnapScan. Courier to your door or PAXI at any PEP.</p>
 <div class="foot"><svg width="34" height="34" viewBox="0 0 24 24" fill="#25D366"><path d="M12 2a10 10 0 0 0-8.6 15.1L2 22l5-1.3A10 10 0 1 0 12 2zm5.3 14.1c-.2.6-1.3 1.2-1.8 1.2-.5.1-1 .2-3.3-.7-2.8-1.1-4.6-4-4.7-4.2-.1-.2-1.1-1.5-1.1-2.9s.7-2 1-2.3c.2-.3.5-.3.7-.3h.5c.2 0 .4 0 .6.5l.8 2c.1.2.1.4 0 .5l-.3.5-.4.4c-.1.1-.3.3-.1.6.2.3.8 1.3 1.7 2.1 1.1 1 2.1 1.3 2.4 1.5.3.1.5.1.6-.1l.9-1c.2-.3.4-.2.6-.1l1.9.9c.3.1.5.2.5.3.1.2.1.7-.1 1.2z"/></svg><span>072 323 5469</span><span class="sep">|</span><span>makkies.co.za</span><span class="sep">|</span><span>Marabastad, Pretoria</span></div></div></body></html>

diff --git a/marketing/whatsapp-ads/make.py b/marketing/whatsapp-ads/make.py
@@ -4,27 +4,30 @@ D = os.path.dirname(os.path.abspath(__file__))
 IMG = '../category-ads-source/img/'
 FONTS = open(os.path.join(D, '../homepage-mockups/fonts/fonts.css')).read().replace('url(gf', 'url(../homepage-mockups/fonts/gf')
 ADS = [
- ('01-basotho-blankets', 'grid', ['bs_trb-011', 'bs_trb-012', 'bs_trb-026'], 'Basotho Blankets', 'Wrapped in tradition',
-  'Seanamarena, Victoria and many more designs for weddings, umembeso and every ceremony.'),
- ('02-ndebele-blankets', 'grid', ['pay_ukhamba', 'pay_umbhalo', 'pay_elizabeth'], 'Ndebele Blankets', 'Bold colours, proud heritage',
-  'Ukhamba, Umbhalo, Elizabeth and more, in stock now.'),
- ('03-wedding-umembeso', 'quad', ['pay_wedding_shawl', 'pay_ziela_gold', 'pay_xhosa_black', 'um_mnk-014'], 'Umembeso & Weddings', 'Everything for the big day',
+ ('01-basotho-blankets', 'grid', [('bs_trb-011','Seannamarena'), ('bs_trb-012','Victoria'), ('bs_trb-026','Moshoeshoe')], 'Basotho Blankets', 'Wrapped in tradition',
+  'Seannamarena, Victoria, Moshoeshoe and many more designs for weddings, umembeso and every ceremony.'),
+ ('02-ndebele-blankets', 'grid', [('pay_ukhamba','Ukhamba'), ('pay_umbhalo','Umbhalo'), ('@ndebele_furpile','Ndebele Furpile')], 'Ndebele Blankets', 'Bold colours, proud heritage',
+  'Ukhamba, Umbhalo, Ndebele Furpile and more, in stock now.'),
+ ('03-wedding-umembeso', 'quad', [('pay_wedding_shawl','White Wedding Shawl'), ('pay_ziela_gold','Neck Ziela'), ('pay_xhosa_black','Black Stripe Blanket'), ('um_mnk-014','Paris Mink Blanket')], 'Umembeso & Weddings', 'Everything for the big day',
   'Blankets, shawls, neck ziela and gifts for the in-laws, all from one shop.'),
- ('04-czech-beads', 'six', ['pay_czech1', 'pay_czech2', 'cz_cz-83130', 'pay_czech3', 'cz_cz-63030', 'cz_cz-37175'], 'Preciosa Czech Beads', 'Every colour you need',
+ ('04-czech-beads', 'six', [('pay_czech1','Dark Orange'), ('pay_czech2','Royal Blue'), ('cz_cz-83130','Yellow'), ('pay_czech3','Bright Green'), ('cz_cz-63030','Turquoise'), ('cz_cz-37175','Ceylon Pink')], 'Preciosa Czech Beads', 'Every colour you need',
   'Loose and strung Czech beads for beadwork, crafters and schools. Ask us for a colour list.'),
- ('05-xhosa-blankets', 'grid', ['xh_rug-001', 'pay_xhosa_black', 'xh_stripe_02'], 'Xhosa Blankets', 'Classic stripes, made to last',
+ ('05-xhosa-blankets', 'grid', [('xh_rug-001','Tivolli Rug'), ('pay_xhosa_black','Black Stripe'), ('xh_stripe_02','Purple Stripe')], 'Xhosa Blankets', 'Classic stripes, made to last',
   'Tribal stripe blankets and traditional rugs in a range of colours.'),
- ('06-ndebele-accessories', 'quad', ['nd_nzl-001', 'hat_ndh-002', 'pay_tekkies', 'ba_trd-011'], 'Ndebele Accessories', 'Finish the look',
+ ('06-ndebele-accessories', 'quad', [('nd_nzl-001','Button Neck Ziela'), ('hat_ndh-002','Ndebele Painted Hat'), ('pay_tekkies','Beetee Painted Tekkies'), ('ba_trd-011','Beaded Necklace')], 'Ndebele Accessories', 'Finish the look',
   'Neck ziela, Ndebele hats, hand-painted tekkies and beaded accessories.'),
- ('07-we-deliver', 'hero', ['bs_trb-024'], 'Order from anywhere', 'We deliver across South Africa',
+ ('07-we-deliver', 'hero', [('bs_trb-024','Mohodu Basotho Blanket')], 'Order from anywhere', 'We deliver across South Africa',
   'Order on WhatsApp or at makkies.co.za. Pay by card, Instant EFT or SnapScan. Courier to your door or PAXI at any PEP.'),
 ]
 def src(n):
+    if n.startswith('@'): return 'img/' + n[1:] + '.jpg'
     for ext in ('.jpg', '.png'):
         if os.path.exists(os.path.join(D, IMG + n + ext)): return IMG + n + ext
     raise SystemExit('missing ' + n)
 def photos(kind, ims):
-    b = lambda n, cls='', pos='center': f'<div class="ph {cls}" style="background-image:url({src(n)});background-position:{pos}"></div>'
+    def b(it, cls='', pos='center'):
+        n, label = it
+        return f'<div class="ph {cls}" style="background-image:url({src(n)});background-position:{pos}"><span class="lb">{label}</span></div>'
     if kind == 'hero': return f'<div class="pics hero">{b(ims[0], pos="50% 40%")}</div>'
     if kind == 'grid': return f'<div class="pics grid">{b(ims[0], "big", "50% 30%")}{b(ims[1])}{b(ims[2])}</div>'
     if kind == 'six': return '<div class="pics six">' + ''.join(b(n) for n in ims) + '</div>'
@@ -32,7 +35,7 @@ def photos(kind, ims):
 WA = '<svg width="34" height="34" viewBox="0 0 24 24" fill="#25D366"><path d="M12 2a10 10 0 0 0-8.6 15.1L2 22l5-1.3A10 10 0 1 0 12 2zm5.3 14.1c-.2.6-1.3 1.2-1.8 1.2-.5.1-1 .2-3.3-.7-2.8-1.1-4.6-4-4.7-4.2-.1-.2-1.1-1.5-1.1-2.9s.7-2 1-2.3c.2-.3.5-.3.7-.3h.5c.2 0 .4 0 .6.5l.8 2c.1.2.1.4 0 .5l-.3.5-.4.4c-.1.1-.3.3-.1.6.2.3.8 1.3 1.7 2.1 1.1 1 2.1 1.3 2.4 1.5.3.1.5.1.6-.1l.9-1c.2-.3.4-.2.6-.1l1.9.9c.3.1.5.2.5.3.1.2.1.7-.1 1.2z"/></svg>'
 CSS = """*{margin:0;padding:0;box-sizing:border-box}@font-face{font-family:'DM Serif Display';src:url(../category-ads-source/fonts/dmserif.woff2)}
 body{width:1080px;height:1350px;font-family:Inter,Arial,sans-serif;background:#F6F0E6;color:#1d1b19;overflow:hidden}
-.pics{height:880px;display:grid;gap:8px;background:#F6F0E6}.ph{background-size:cover;background-repeat:no-repeat}
+.pics{height:880px;display:grid;gap:8px;background:#F6F0E6}.ph{background-size:cover;background-repeat:no-repeat;position:relative}.lb{position:absolute;left:16px;bottom:16px;background:rgba(255,255,255,.94);color:#1d1b19;font-size:25px;font-weight:600;padding:9px 16px;border-radius:8px;box-shadow:0 2px 10px rgba(0,0,0,.18);line-height:1.15}.six .lb{font-size:22px;left:12px;bottom:12px;padding:8px 13px}.hero .lb{left:24px;bottom:24px;font-size:28px}
 .grid{grid-template-columns:2fr 1fr;grid-template-rows:1fr 1fr}.grid .big{grid-row:1/3}.quad{grid-template-columns:1fr 1fr;grid-template-rows:1fr 1fr}.hero .ph{height:880px}.six{grid-template-columns:1fr 1fr 1fr;grid-template-rows:1fr 1fr}
 .stripe{height:14px;background:linear-gradient(90deg,#45203F 0 12%,#FFE14F 12% 30%,#0350EA 30% 46%,#FF0141 46% 62%,#05B56D 62% 74%,#FF0141 74% 84%,#FFE14F 84% 96%,#45203F 96%)}
 .panel{height:456px;padding:40px 56px 0;position:relative}
